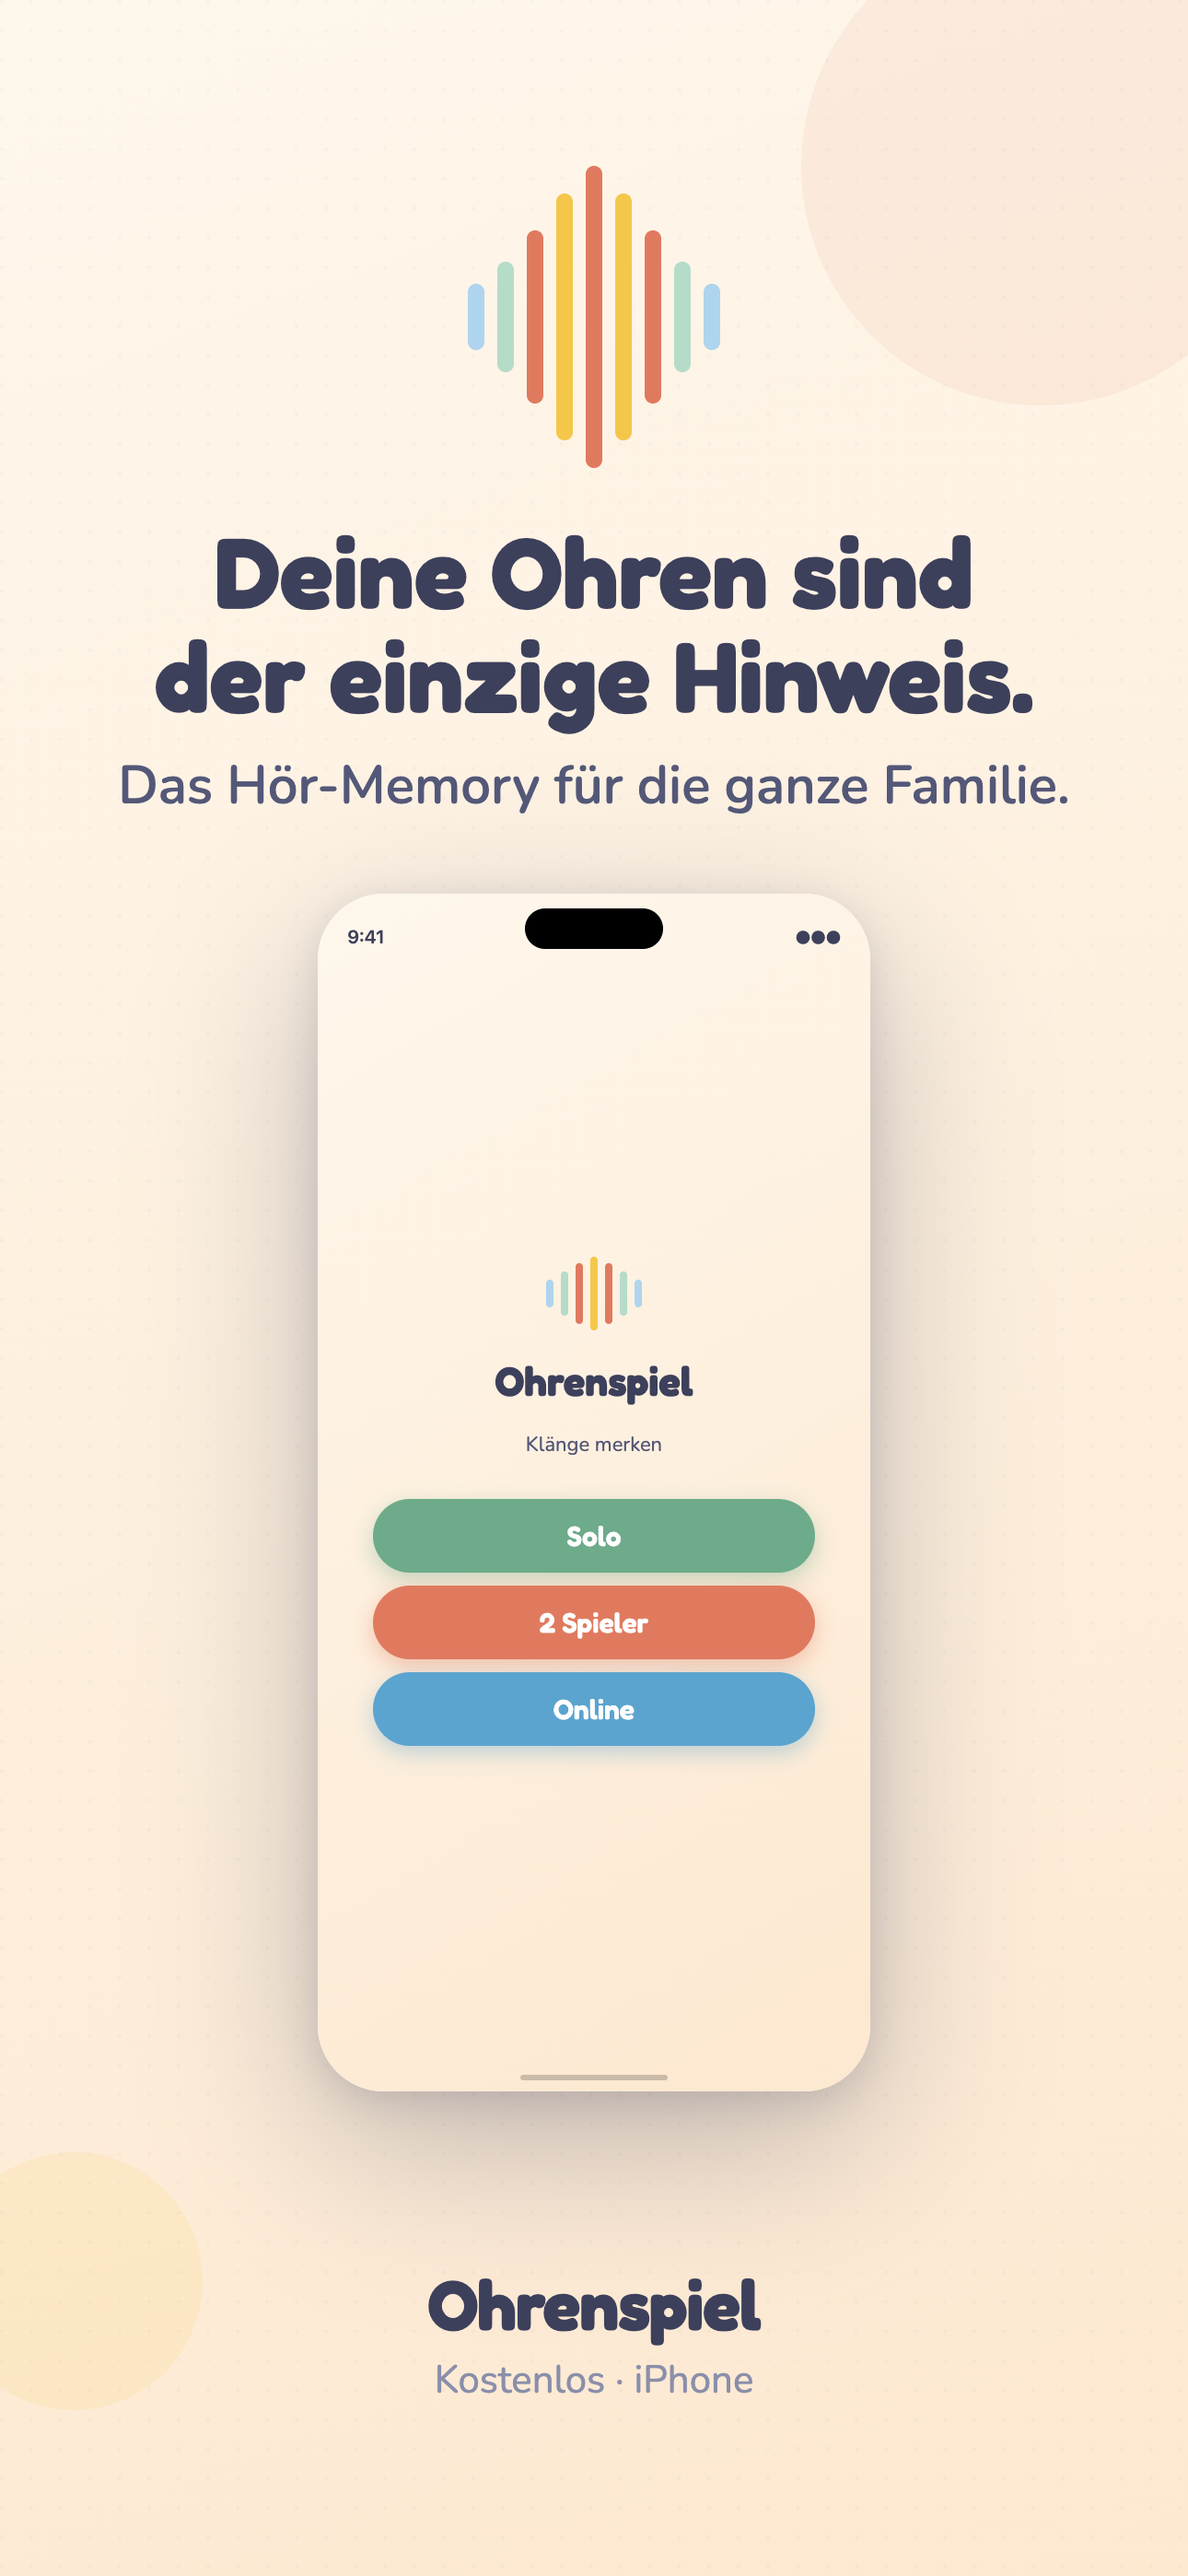
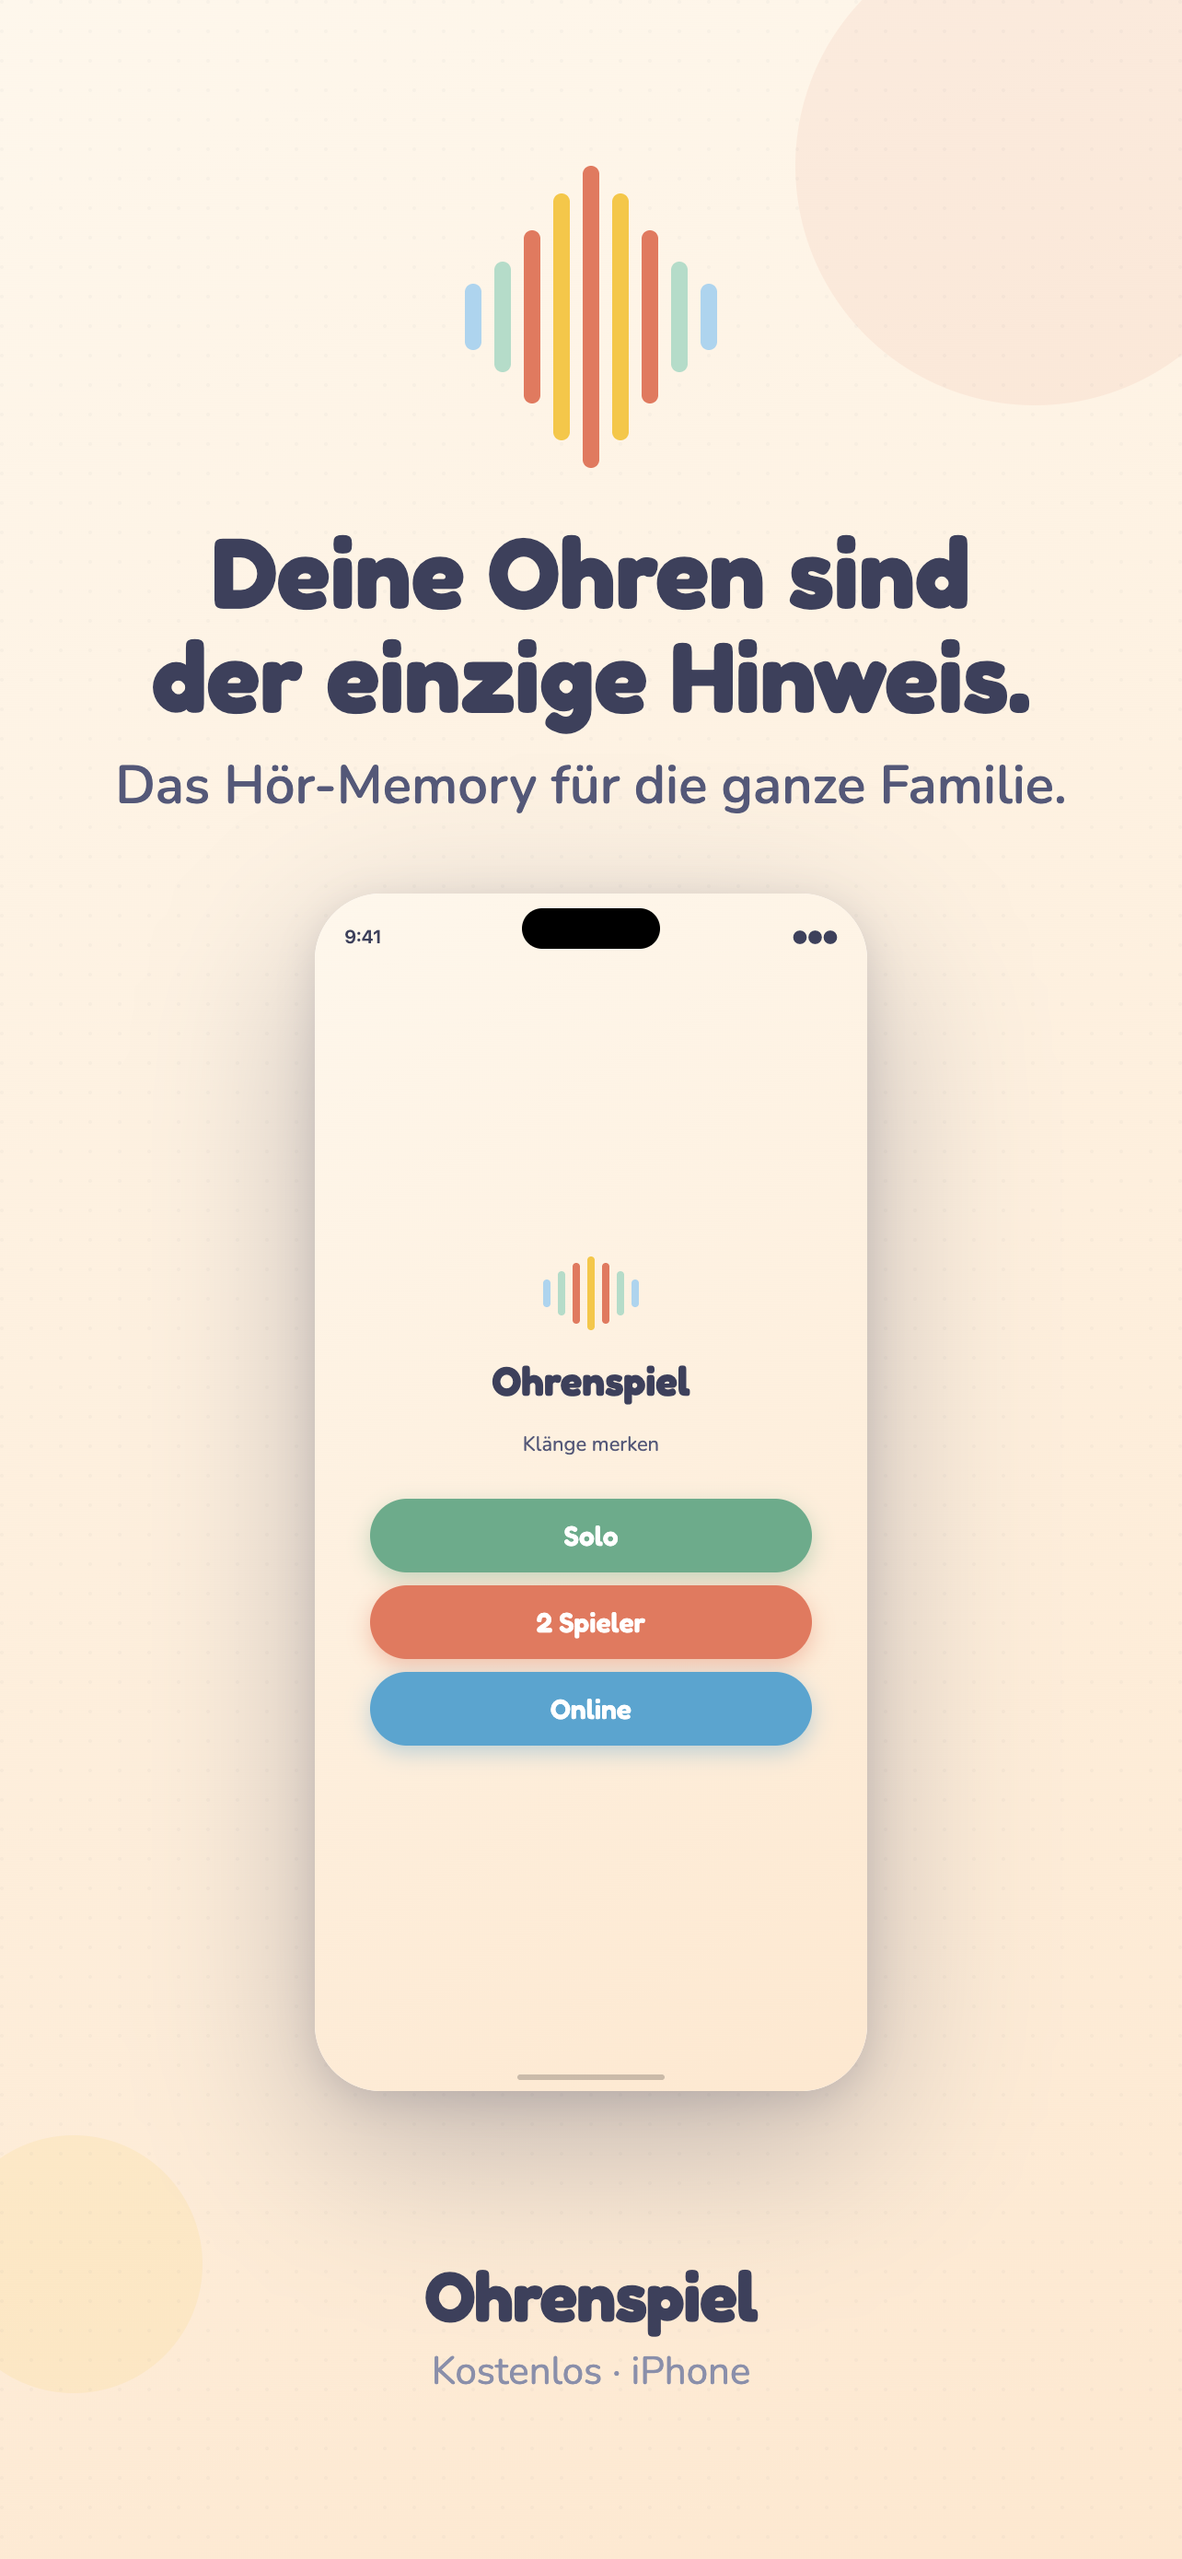
Resize iPhone screenshots to 1284×2778 (6.7" required by App Store Connect)

diff --git a/appstore/iphone.html b/appstore/iphone.html
@@ -2,7 +2,7 @@
 <html lang="de">
 <head>
 <meta charset="utf-8">
-<title>Ohrenspiel — iPhone Screenshots 1290×2796</title><!-- v2 -->
+<title>Ohrenspiel — iPhone Screenshots 1284×2778</title><!-- v2 -->
 <link href="https://fonts.googleapis.com/css2?family=Fredoka:wght@400;600;700&family=Nunito:wght@400;600;700;800&display=swap" rel="stylesheet">
 <script src="deck-stage.js"></script>
 <style>
@@ -10,7 +10,7 @@
   body { background: #111; }
 
   section {
-    width: 1290px; height: 2796px;
+    width: 1284px; height: 2778px;
     display: flex; flex-direction: column;
     position: relative; overflow: hidden;
   }
@@ -61,7 +61,7 @@
 </style>
 </head>
 <body>
-<deck-stage width="1290" height="2796">
+<deck-stage width="1284" height="2778">
 
 <!-- ════════════════════════════════
      01  HERO
